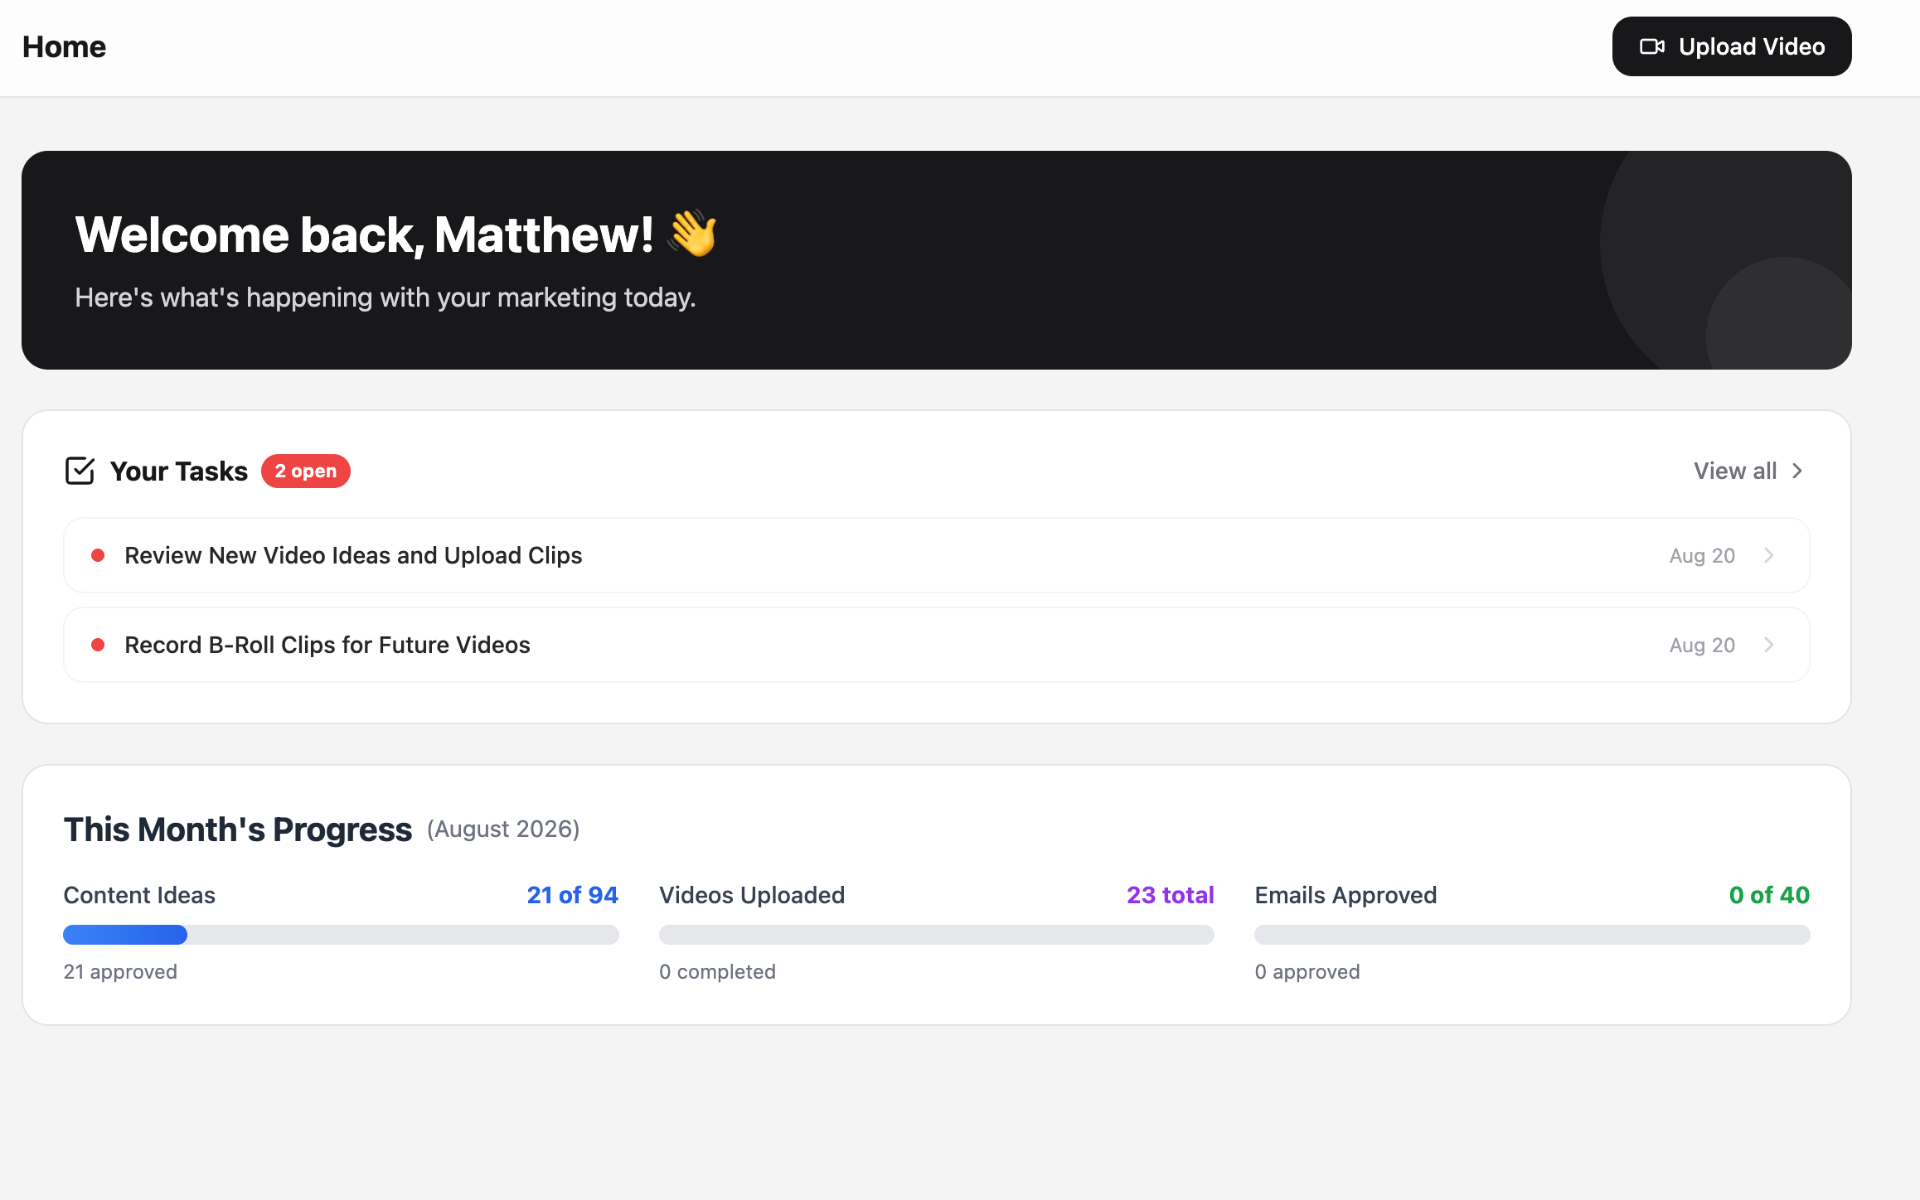
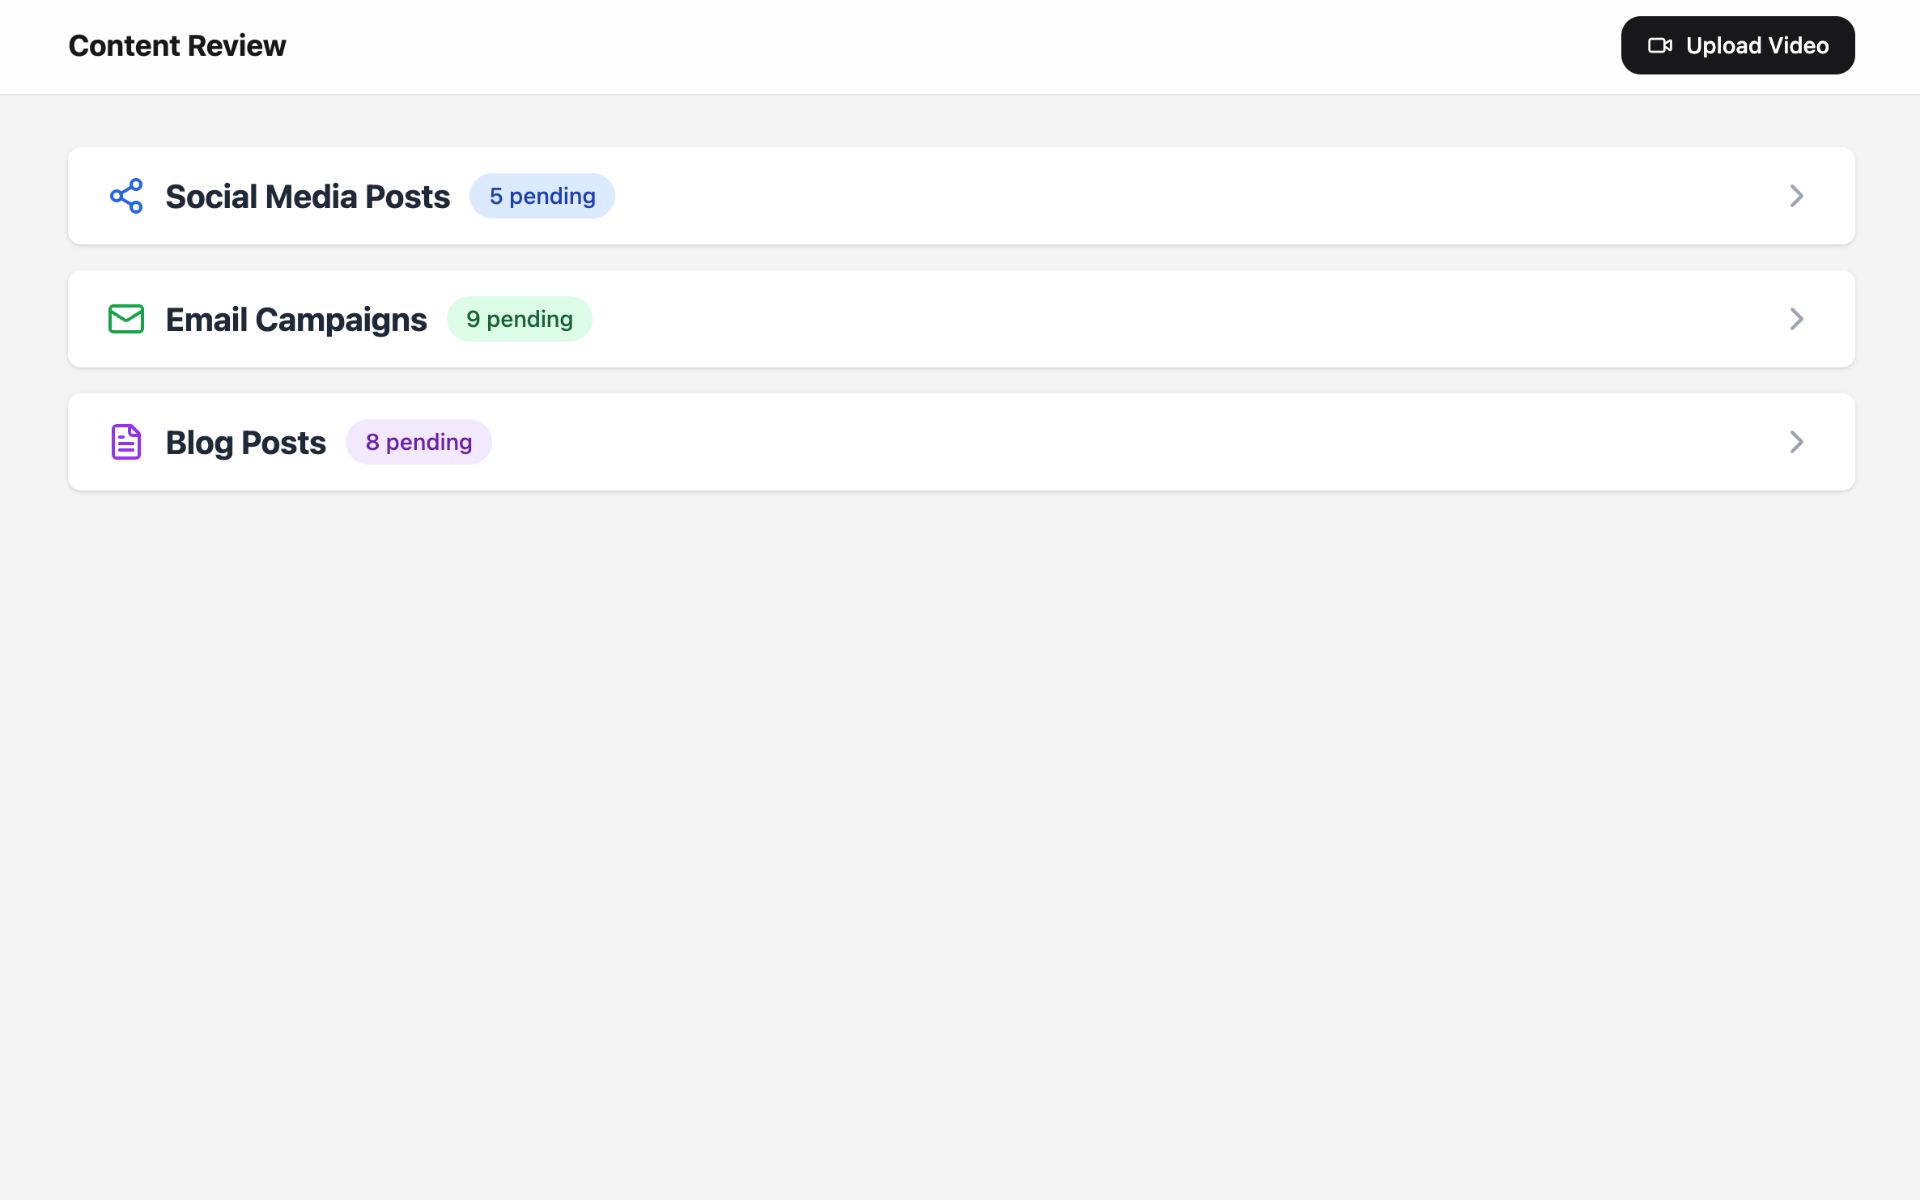
Wire the real portal screenshots into the preview phases
The screenshots were in the repo but the phases still pointed at empty
`src` values, so every frame rendered its placeholder.

Two of the three files did not contain what their names said:
portal-review.png was the home dashboard and portal-upload.png was the
content review queue. Renamed both to match their contents and mapped the
phases by what is actually in each image, so no label describes the wrong
screen.

There is no upload-flow capture among the three. Review and Calendar sit
in the first and last slots as intended; the dashboard stands in for
upload in the middle until a real one exists.

Claude-Session: https://claude.ai/code/session_01FHQcTwK9beiZtgJ2J983ns

diff --git a/app/components/home/PortalPreview.tsx b/app/components/home/PortalPreview.tsx
@@ -30,26 +30,31 @@ type Phase = {
   shot: string;
 };
 
+// NOTE FOR COLIN: phases are mapped to what each screenshot actually shows,
+// not to the filenames they arrived under — two of the three were swapped.
+// The middle slot is meant to be the upload flow, but no upload-screen capture
+// exists yet, so the dashboard is standing in. Send an upload screenshot and it
+// drops straight into that slot.
 const PHASES: Phase[] = [
   {
     id: 'review',
     label: 'Review',
-    caption: 'Your content comes to you finished. Approve it in a tap.',
-    src: '',
-    shot: 'content review and approval queue',
+    caption: 'Your posts, emails, and blogs come to you finished. Approve them in a tap.',
+    src: '/images/portal-review.png',
+    shot: 'content review queue',
   },
   {
-    id: 'upload',
-    label: 'Upload',
-    caption: 'Send us a clip from your phone and we handle the rest.',
-    src: '',
-    shot: 'content upload screen',
+    id: 'home',
+    label: 'Dashboard',
+    caption: 'Open the portal and see exactly where your marketing stands.',
+    src: '/images/portal-home.png',
+    shot: 'home dashboard with open tasks and monthly progress',
   },
   {
     id: 'calendar',
     label: 'Calendar',
     caption: 'See everything that is scheduled, posted, and coming up.',
-    src: '',
+    src: '/images/portal-calendar.png',
     shot: 'content calendar view',
   },
 ];
